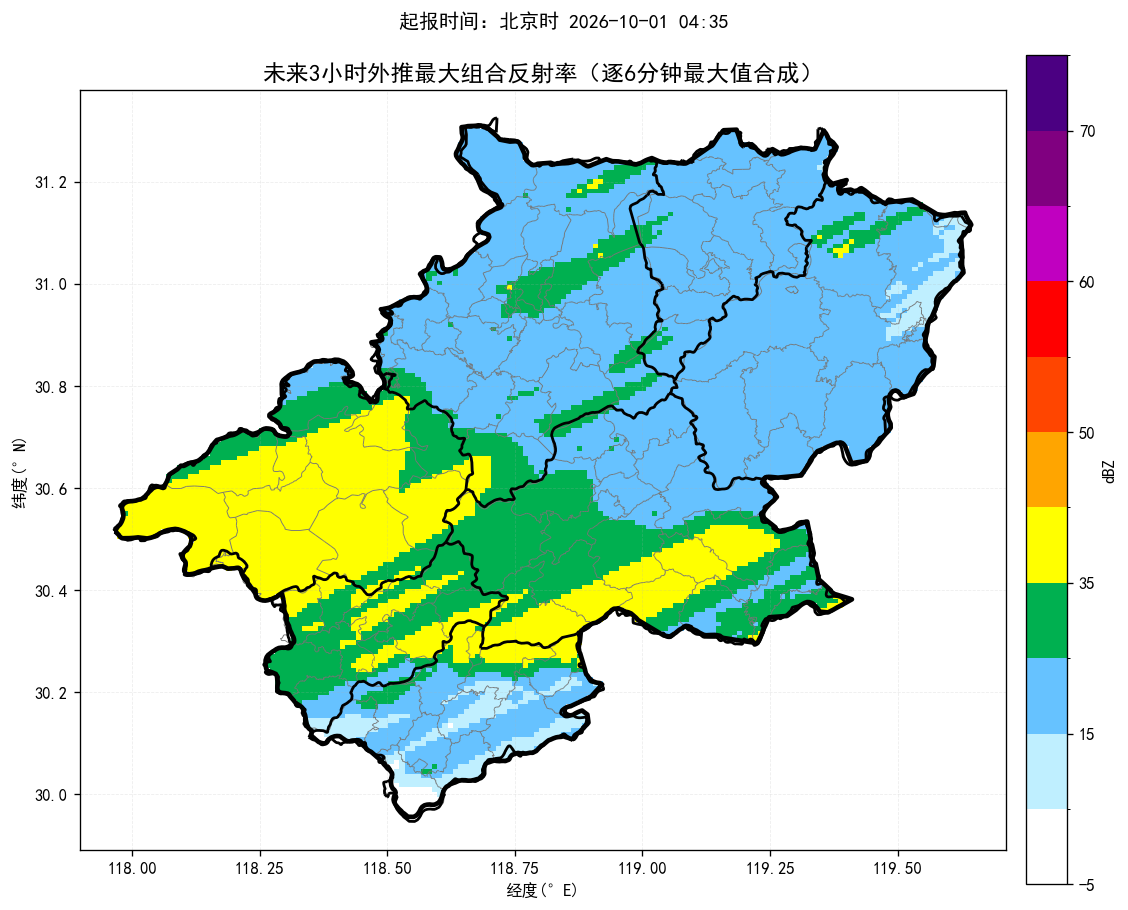
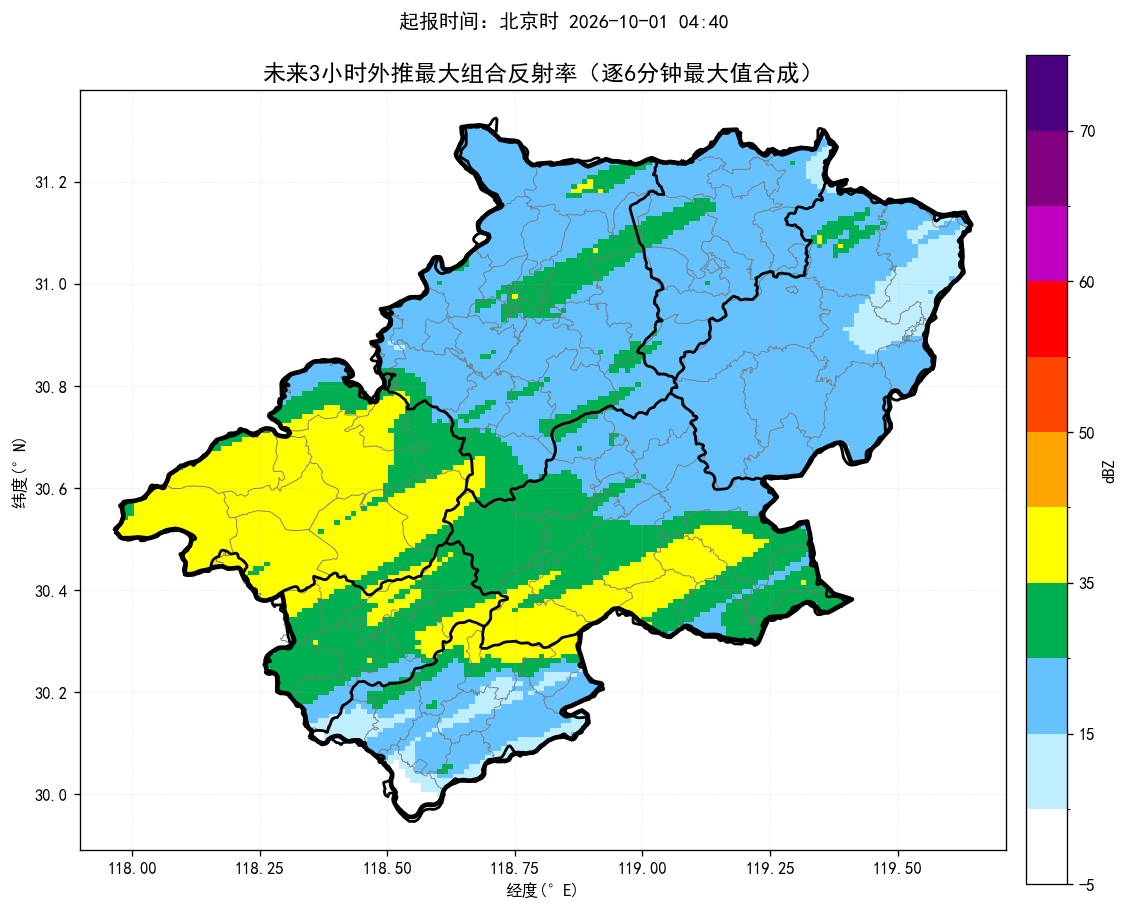
update nowcast products

diff --git a/index.html b/index.html
@@ -14,14 +14,14 @@ img.product{display:block;width:100%;height:auto;margin:10px auto 26px;border:1p
 .footer{font-size:13px;color:#777;text-align:center;margin-top:30px}
 @media(max-width:700px){.sheet{margin:0;padding:18px 15px}.alert-title{font-size:22px}.county-line{font-size:17px}.prob{font-size:18px}}
 </style></head><body><main class="sheet">
-<div class="time">起报时间：北京时 2026-10-01 04:35</div>
+<div class="time">起报时间：北京时 2026-10-01 04:40</div>
 <div class="alert-title">未来一小时降水量超过 20 毫米的乡镇：</div><div class="county-line">无</div>
 <div class="alert-title">未来三小时降水量超过 50 毫米的乡镇：</div><div class="county-line">无</div>
 <div class="alert-title">未来三小时雷暴大风（组合反射率 > 55 dBZ）的乡镇：</div><div class="county-line">无</div>
-<div class="prob">最大降水量概率预估：宣城市范围内未来三小时降水偏小，最大预报约14.6毫米，暂不进行50/80/100毫米概率预估。</div>
-<div class="section-title">未来降水预报图：</div><img class="product auto-refresh-product" data-src="短临降水预报.png" src="短临降水预报.png?v=20261001044109" alt="未来降水预报图">
-<div class="section-title">未来三小时组合反射率图：</div><img class="product auto-refresh-product" data-src="未来3小时组合反射率.png" src="未来3小时组合反射率.png?v=20261001044109" alt="未来三小时组合反射率图">
-<div class="section-title">未来三小时雷暴大风图：</div><img class="product auto-refresh-product" data-src="未来3小时雷暴大风.png" src="未来3小时雷暴大风.png?v=20261001044109" alt="未来三小时雷暴大风图">
+<div class="prob">最大降水量概率预估：宣城市范围内未来三小时降水偏小，最大预报约15.9毫米，暂不进行50/80/100毫米概率预估。</div>
+<div class="section-title">未来降水预报图：</div><img class="product auto-refresh-product" data-src="短临降水预报.png" src="短临降水预报.png?v=20261001044650" alt="未来降水预报图">
+<div class="section-title">未来三小时组合反射率图：</div><img class="product auto-refresh-product" data-src="未来3小时组合反射率.png" src="未来3小时组合反射率.png?v=20261001044650" alt="未来三小时组合反射率图">
+<div class="section-title">未来三小时雷暴大风图：</div><img class="product auto-refresh-product" data-src="未来3小时雷暴大风.png" src="未来3小时雷暴大风.png?v=20261001044650" alt="未来三小时雷暴大风图">
 <div class="footer">三张产品图每 60 秒自动刷新一次；每次请求自动附加新的URL参数以绕过缓存。</div>
 <script>
 (function() {
